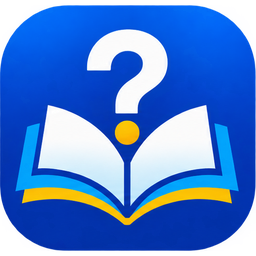
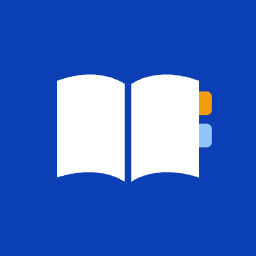
edited vercel.json

diff --git a/index.html b/index.html
@@ -3,10 +3,11 @@
 <head>
 <meta charset="UTF-8">
 <meta name="viewport" content="width=device-width, initial-scale=1.0">
-<title>JUPEB Question Bank</title>
+<title>JUPEB &amp; IJMB Prep</title>
+  <link rel="icon" href="/favicon.ico" sizes="any">
 <link rel="icon" type="image/png" sizes="192x192" href="/icon-192.png">
 <link rel="icon" type="image/png" sizes="512x512" href="/icon-512.png">
-<link rel="apple-touch-icon" href="/icon-192.png">
+  <link rel="apple-touch-icon" href="/apple-touch-icon.png">
 <link rel="stylesheet" href="style.css">
      <link rel="stylesheet" href="welcome.css">
 <link rel="stylesheet" href="exam-mode.css">
@@ -19,7 +20,7 @@
 <meta name="theme-color" content="#0d6efd">
 <meta name="apple-mobile-web-app-capable" content="yes">
 <meta name="apple-mobile-web-app-status-bar-style" content="default">
-<meta name="apple-mobile-web-app-title" content="JUPEB QB">
+<meta name="apple-mobile-web-app-title" content="JUPEB &amp; IJMB">
 
 <!-- Service Worker Registration -->
 <script>
@@ -122,7 +123,7 @@
     <header class="home-top">
       <div class="home-brand">
         <img src="images/jupeb-icon.png" alt="" width="40" height="40">
-        <span data-site-name>JUPEB Question Bank</span>
+        <span data-site-name>JUPEB &amp; IJMB Prep</span>
       </div>
       <div class="home-top-actions">
         <button class="home-signin-top" onclick="signInWithGoogle()">Sign in</button>
@@ -138,7 +139,7 @@
     </header>
 
     <!-- Slideshow -->
-    <section class="home-hero" id="home-hero" aria-roledescription="carousel" aria-label="Why students use JUPEB Question Bank">
+    <section class="home-hero" id="home-hero" aria-roledescription="carousel" aria-label="Why students use JUPEB &amp; IJMB Prep">
       <div class="home-segs" id="home-segs"></div>
       <div class="home-slides" id="home-slides">
 
@@ -198,7 +199,7 @@
           <p>Students are already studying with us, one question at a time.</p>
           <div class="home-demo home-demo--people">
             <div class="home-avatars"><span></span><span></span><span></span><span></span><span class="home-avatar-more">100+</span></div>
-            <div class="home-people-note">studying with JUPEB Question Bank</div>
+            <div class="home-people-note">studying with JUPEB &amp; IJMB Prep</div>
           </div>
         </article>
 
@@ -207,7 +208,7 @@
           <h2>Study on any phone</h2>
           <p>Add it to your home screen and open it like an app.</p>
           <div class="home-demo home-demo--phone">
-            <div class="home-phone"><img src="images/jupeb-icon.png" alt="" width="46" height="46"><small>JUPEB QB</small></div>
+            <div class="home-phone"><img src="images/jupeb-icon.png" alt="" width="46" height="46"><small>JUPEB &amp; IJMB</small></div>
             <div class="home-phone-steps"><strong>Share</strong> → <strong>Add to Home Screen</strong></div>
           </div>
         </article>
@@ -268,7 +269,7 @@
       <details class="home-faq-item"><summary>Does it work on my phone?</summary><p>Yes. It works on any phone, tablet or laptop, and you can add it to your home screen and open it like an app.</p></details>
       <details class="home-faq-item"><summary>Can I use it on more than one device?</summary><p>Yes. Just sign in with the same Gmail.</p></details>
       <details class="home-faq-item"><summary>I paid but I can't sign in.</summary><p>Sign in with the exact Gmail you sent us with your receipt. If it still doesn't work, message us on WhatsApp and we'll sort it out.</p></details>
-      <details class="home-faq-item"><summary>Is this the official JUPEB or IJMB website?</summary><p>No. <span data-site-name>JUPEB Question Bank</span> is an independent study tool. It is not affiliated with the Joint Universities Preliminary Examinations Board (JUPEB) or the Interim Joint Matriculation Board (IJMB).</p></details>
+      <details class="home-faq-item"><summary>Is this the official JUPEB or IJMB website?</summary><p>No. <span data-site-name>JUPEB &amp; IJMB Prep</span> is an independent study tool. It is not affiliated with the Joint Universities Preliminary Examinations Board (JUPEB) or the Interim Joint Matriculation Board (IJMB).</p></details>
       </div>
     </section>
 
@@ -378,7 +379,7 @@
     <div class="main-container">
         <main id="questions-area">
             <div class="welcome-message" id="welcome-message">
-                <h2>📚 Welcome to JUPEB Question Bank</h2>
+                <h2>📚 Welcome to JUPEB &amp; IJMB Prep</h2>
                 <p>Click "Subjects" in the sidebar to get started.</p>
             </div>
             <div id="questions-container"></div>
@@ -527,7 +528,7 @@
   <div class="survey-modal">
     <div class="survey-header">
       <div class="survey-emoji">👋</div>
-      <h2>Welcome to JUPEB Question Bank</h2>
+      <h2>Welcome to JUPEB &amp; IJMB Prep</h2>
       <p>Before we get started, help us understand how you found us. Takes 20 seconds.</p>
     </div>
 
@@ -577,7 +578,7 @@
  
   <div class="bell-body" id="bell-pane-updates">
     <details class="bell-guide" id="bell-guide" open>
-      <summary>📲 Add JUPEB Question Bank to your home screen</summary>
+      <summary>📲 Add JUPEB &amp; IJMB Prep to your home screen</summary>
       <p>Open it like an app, in one tap.</p>
       <ul>
         <li><strong>Android (Chrome):</strong> tap the ⋮ menu, then “Install app” (or “Add to Home screen”).</li>
@@ -672,11 +673,11 @@
         </div>
         <div class="footer-bottom">
             <div class="footer-left">
-                <span class="footer-brand" data-site-name>JUPEB Question Bank</span>
+                <span class="footer-brand" data-site-name>JUPEB &amp; IJMB Prep</span>
                 <span class="footer-version desktop-only">v2.0</span>
             </div>
             <div class="footer-center">
-                <span class="footer-copyright">&copy; 2026 <span data-site-name>JUPEB Question Bank</span></span>
+                <span class="footer-copyright">&copy; 2026 <span data-site-name>JUPEB &amp; IJMB Prep</span></span>
                 <span class="footer-dot desktop-only">•</span>
                 <span class="footer-updated desktop-only">Updated: August 1, 2026</span>
             </div>

diff --git a/admin.html b/admin.html
@@ -3,7 +3,7 @@
 <head>
 <meta charset="UTF-8">
 <meta name="viewport" content="width=device-width, initial-scale=1.0">
-<title>Admin Panel - JUPEB Question Bank</title>
+<title>Admin Panel - JUPEB &amp; IJMB Prep</title>
 <style>
     * { margin: 0; padding: 0; box-sizing: border-box; }
     body {
@@ -1372,7 +1372,7 @@ function renderAdminFeedback() {
         </div>
         <div class="user-actions" style="flex-wrap:wrap;justify-content:flex-end;">
           <button class="small ${done ? 'secondary' : 'success'}" data-fb-act="${done ? 'reopen' : 'done'}" data-id="${fbEsc(i.id)}">${done ? '↩ Reopen' : '✓ Done'}</button>
-          <a class="fb-reply" href="mailto:${fbEsc(i.email)}?subject=${encodeURIComponent('Your JUPEB Question Bank feedback')}">✉ Reply</a>
+          <a class="fb-reply" href="mailto:${fbEsc(i.email)}?subject=${encodeURIComponent('Your JUPEB & IJMB Prep feedback')}">✉ Reply</a>
           <button class="small danger" data-fb-act="delete" data-id="${fbEsc(i.id)}">🗑</button>
         </div>
       </div>`;

diff --git a/exam-mode.js b/exam-mode.js
@@ -9,7 +9,7 @@
 
 // The site's name, in one place. Every element marked data-site-name shows it,
 // so renaming the site later means changing only this line.
-const SITE_NAME = 'JUPEB Question Bank';
+const SITE_NAME = 'JUPEB & IJMB Prep';
 function applySiteName() {
   document.querySelectorAll('[data-site-name]').forEach(el => { el.textContent = SITE_NAME; });
 }

diff --git a/teacher.html b/teacher.html
@@ -3,7 +3,7 @@
 <head>
 <meta charset="UTF-8">
 <meta name="viewport" content="width=device-width, initial-scale=1.0">
-<title>Teacher Dashboard - JUPEB Question Bank</title>
+<title>Teacher Dashboard - JUPEB &amp; IJMB Prep</title>
 <style>
   * { margin: 0; padding: 0; box-sizing: border-box; }
   :root {

diff --git a/service-worker.js b/service-worker.js
@@ -1,4 +1,4 @@
-const CACHE_VERSION = 'v23';
+const CACHE_VERSION = 'v24';
 const CACHE_NAME = `jupeb-qb-${CACHE_VERSION}`;
 
 const ASSETS_TO_CACHE = [
